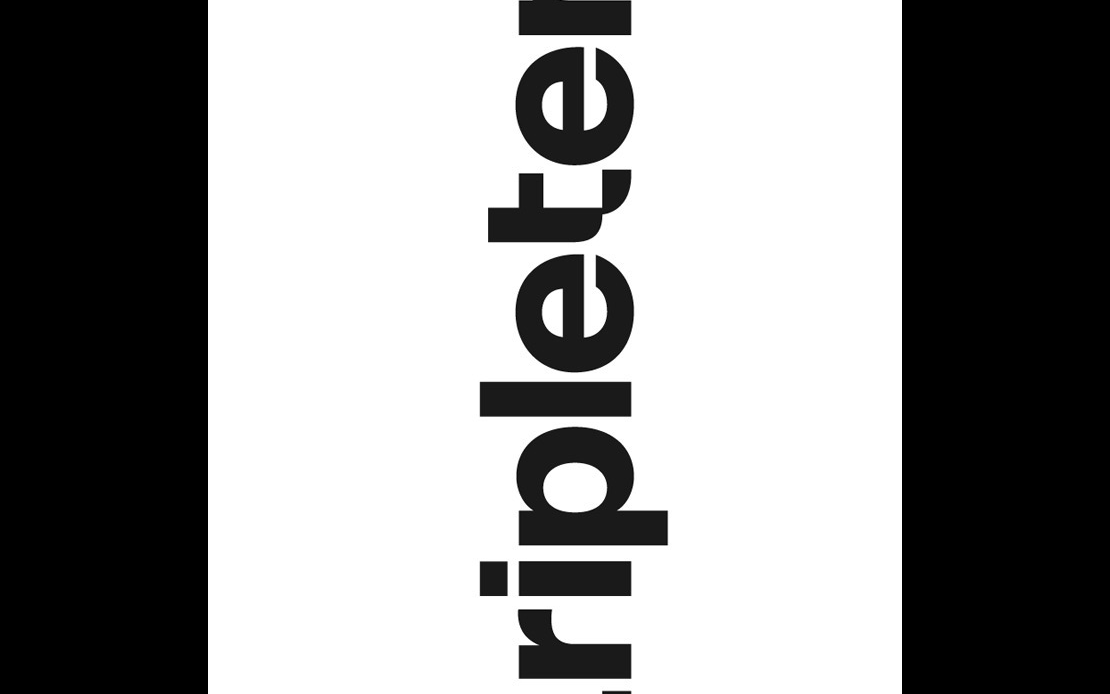
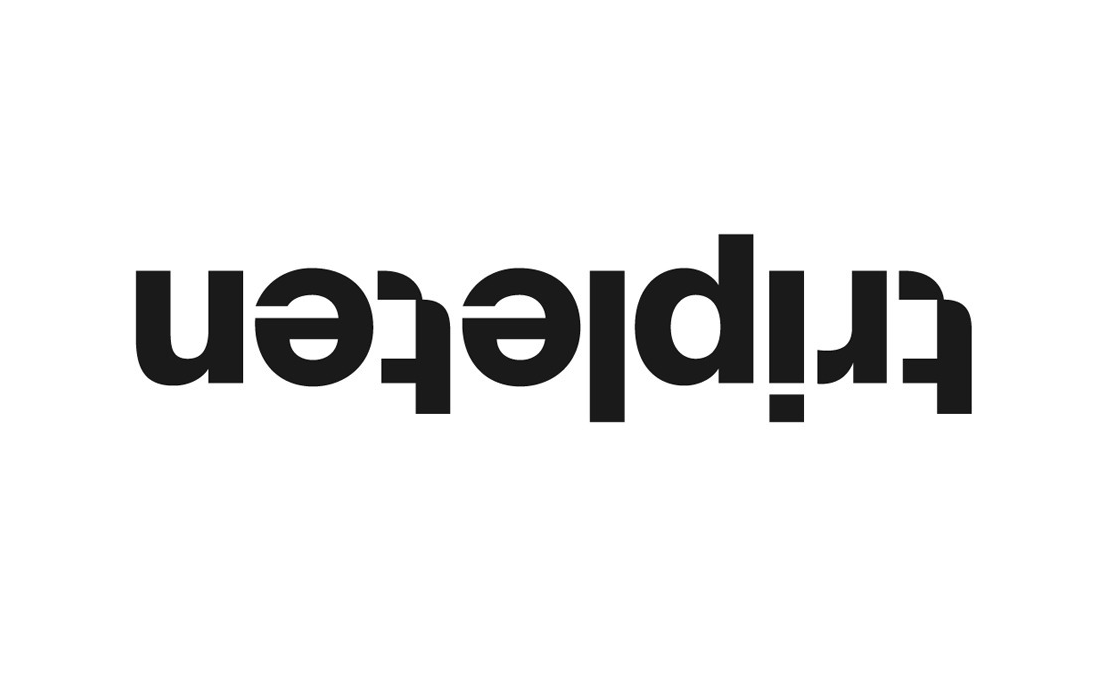
Update

diff --git a/image_rotator.py b/image_rotator.py
@@ -1,0 +1,26 @@
+from PIL import Image 
+import argparse 
+
+parser = argparse.ArgumentParser() 
+
+parser.add_argument ("input_file")
+parser.add_argument ("output_file")
+parser.add_argument ("angle", type=int)
+parser.add_argument ("-i", "--info", action="store_true")
+args = parser.parse_args()
+
+angle = args.angle
+
+try: 
+    im = Image.open (args.input_file)
+except FileNotFoundError: 
+    print ("Archivo de entrada no encontrado, introduce el nombre del archivo correcto")
+
+else: 
+    rotated = im.rotate (angle)
+    im.close ()
+    rotated.save (args.output_file)
+    print ("Ejecución fluida")
+
+if args.info: 
+    print ("Dimensiones de la imagen de entrada:", im.size)
